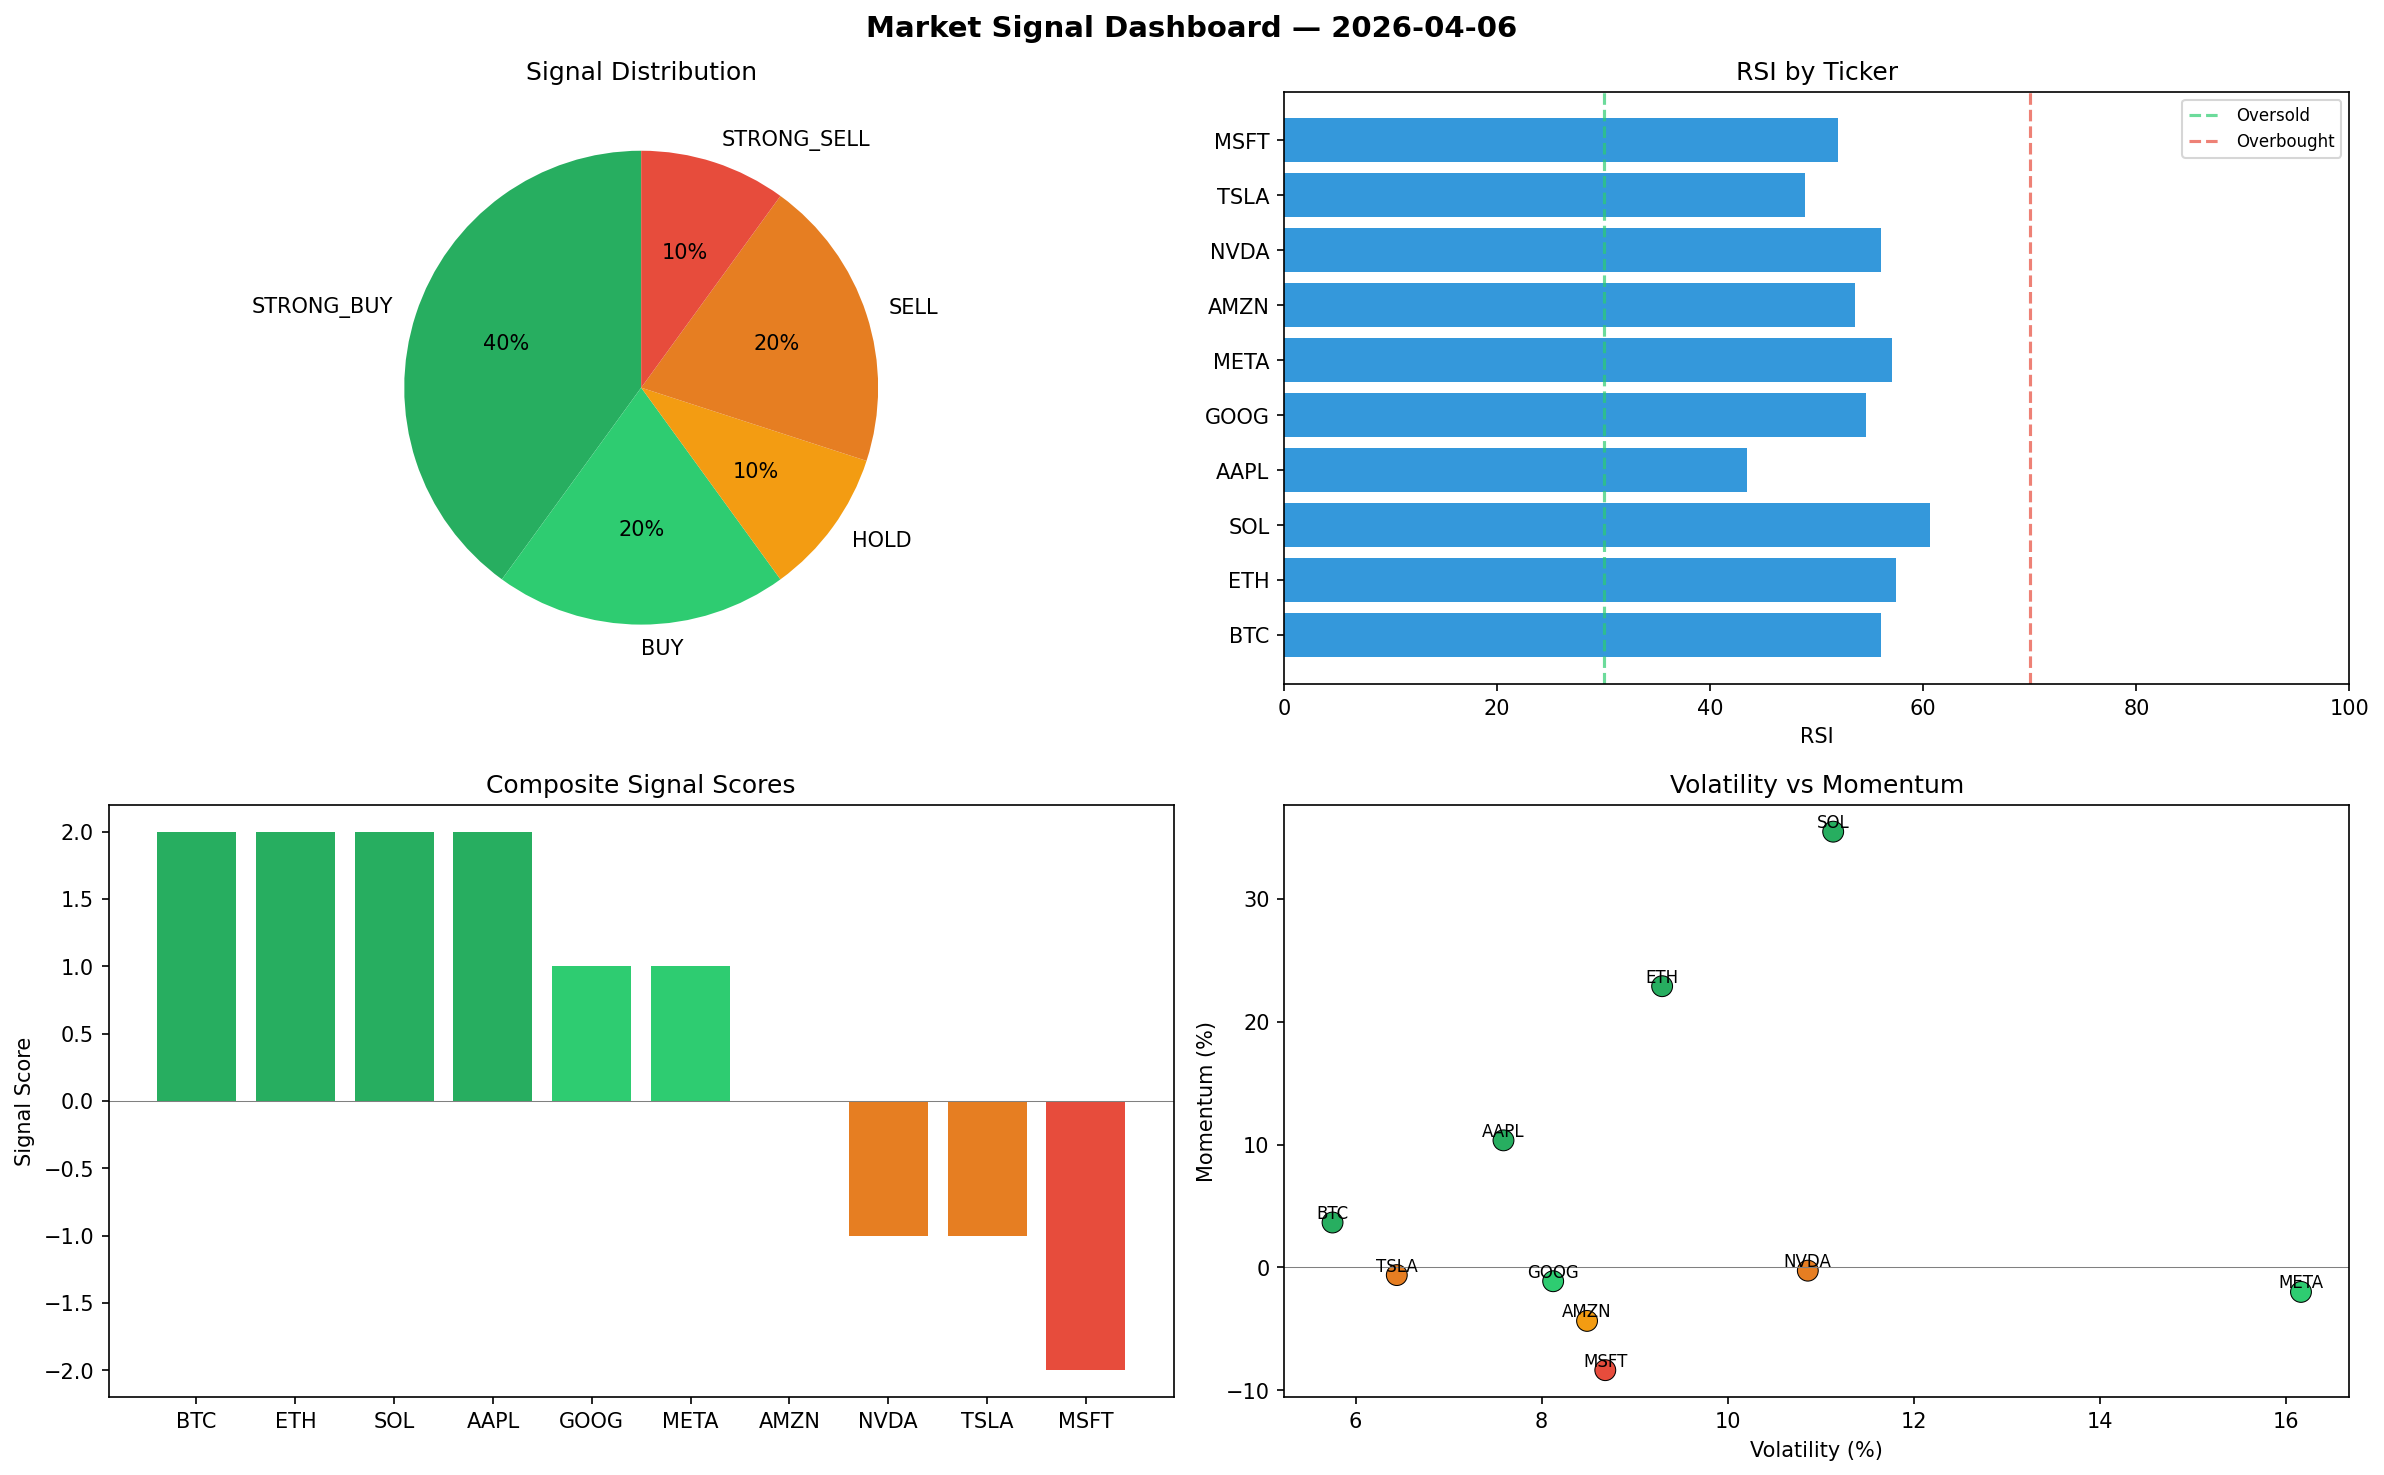
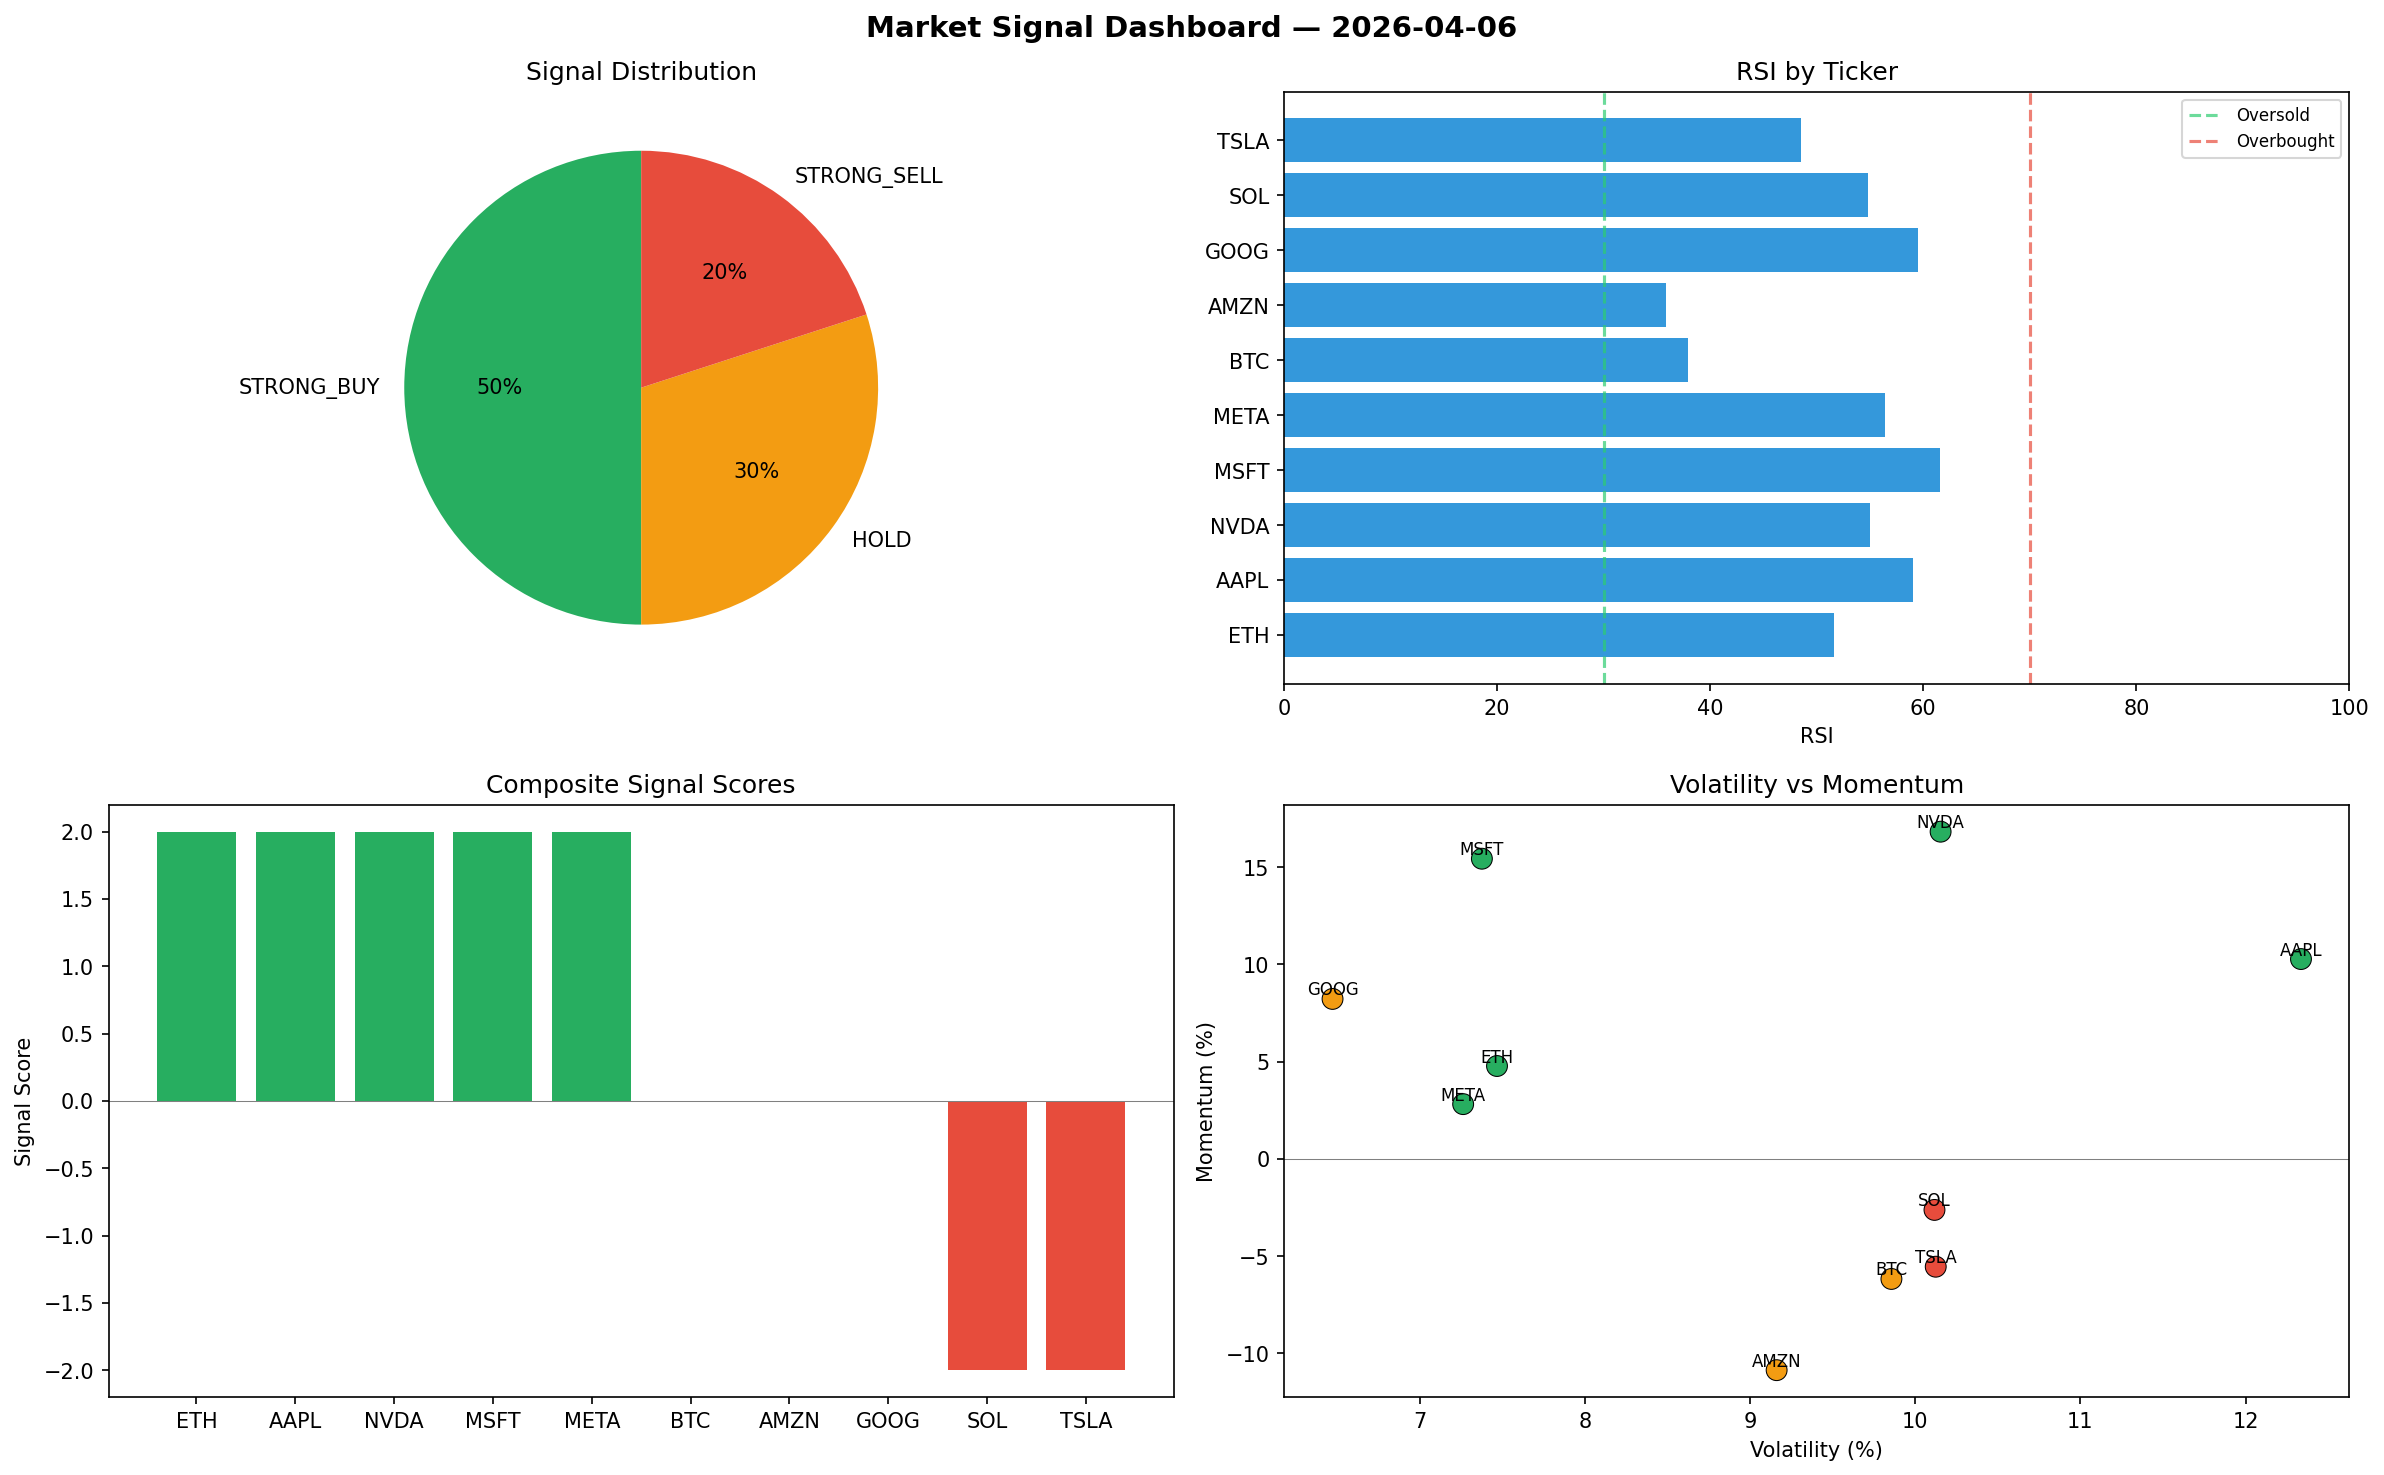
automated-bots: market signals 2026-04-06T09:46

diff --git a/logs/2026-04-06.md b/logs/2026-04-06.md
@@ -1,6 +1,6 @@
 # Market Signal Report — 2026-04-06
 
-**Run ID:** `2b1b0541de` | **Buy:** 6 | **Sell:** 3 | **Hold:** 1
+**Run ID:** `2f3bd94c5b` | **Buy:** 5 | **Sell:** 2 | **Hold:** 3
 
 ![Dashboard](2026-04-06_dashboard.png)
 
@@ -8,28 +8,28 @@
 
 | Ticker | Price | Signal | Score | RSI | Momentum | Confidence |
 |--------|-------|--------|-------|-----|----------|------------|
-| BTC | $4869.92 | **STRONG_BUY** | 2 | 56.02 | 0.0365 | 0.5 |
-| ETH | $4966.6 | **STRONG_BUY** | 2 | 57.41 | 0.2289 | 0.5 |
-| SOL | $6142.88 | **STRONG_BUY** | 2 | 60.65 | 0.3547 | 0.5 |
-| AAPL | $4188.81 | **STRONG_BUY** | 2 | 43.41 | 0.1034 | 0.5 |
-| GOOG | $3370.62 | **BUY** | 1 | 54.59 | -0.0113 | 0.25 |
-| META | $1518.66 | **BUY** | 1 | 57.04 | -0.02 | 0.25 |
-| AMZN | $4423.81 | **HOLD** | 0 | 53.6 | -0.0436 | 0.0 |
-| NVDA | $104.97 | **SELL** | -1 | 56.05 | -0.0027 | 0.25 |
-| TSLA | $490.84 | **SELL** | -1 | 48.93 | -0.0063 | 0.25 |
-| MSFT | $1359.24 | **STRONG_SELL** | -2 | 52.01 | -0.0837 | 0.5 |
+| ETH | $3713.13 | **STRONG_BUY** | 2 | 51.62 | 0.0477 | 0.5 |
+| AAPL | $3231.07 | **STRONG_BUY** | 2 | 59.04 | 0.1027 | 0.5 |
+| NVDA | $3143.82 | **STRONG_BUY** | 2 | 55.0 | 0.1682 | 0.5 |
+| MSFT | $4668.33 | **STRONG_BUY** | 2 | 61.53 | 0.1543 | 0.5 |
+| META | $4402.85 | **STRONG_BUY** | 2 | 56.4 | 0.0281 | 0.5 |
+| BTC | $4389.29 | **HOLD** | 0 | 37.89 | -0.0618 | 0.0 |
+| AMZN | $302.34 | **HOLD** | 0 | 35.83 | -0.1087 | 0.0 |
+| GOOG | $1893.18 | **HOLD** | 0 | 59.49 | 0.0822 | 0.0 |
+| SOL | $375.8 | **STRONG_SELL** | -2 | 54.79 | -0.0263 | 0.5 |
+| TSLA | $3496.52 | **STRONG_SELL** | -2 | 48.56 | -0.0555 | 0.5 |
 
 ## Delta vs Yesterday
 
 | Ticker | Today | Yesterday | Price Change | Signal Changed |
 |--------|-------|-----------|-------------|----------------|
-| BTC | STRONG_BUY | HOLD | 📈 718.61% | ⚠ YES |
-| ETH | STRONG_BUY | HOLD | 📈 592.05% | ⚠ YES |
-| SOL | STRONG_BUY | STRONG_SELL | 📈 9780.78% | ⚠ YES |
-| AAPL | STRONG_BUY | STRONG_SELL | 📈 34.56% | ⚠ YES |
-| GOOG | BUY | HOLD | 📉 -13.24% | ⚠ YES |
-| META | BUY | STRONG_BUY | 📉 -63.87% | ⚠ YES |
-| AMZN | HOLD | HOLD | 📈 339.17% | — |
-| NVDA | SELL | STRONG_SELL | 📉 -95.83% | ⚠ YES |
-| TSLA | SELL | HOLD | 📈 36.35% | ⚠ YES |
-| MSFT | STRONG_SELL | SELL | 📉 -68.03% | ⚠ YES |
+| ETH | STRONG_BUY | HOLD | 📈 417.39% | ⚠ YES |
+| AAPL | STRONG_BUY | STRONG_SELL | 📈 3.79% | ⚠ YES |
+| NVDA | STRONG_BUY | STRONG_SELL | 📈 24.88% | ⚠ YES |
+| MSFT | STRONG_BUY | SELL | 📈 9.8% | ⚠ YES |
+| META | STRONG_BUY | STRONG_BUY | 📈 4.74% | — |
+| BTC | HOLD | HOLD | 📈 637.82% | — |
+| AMZN | HOLD | HOLD | 📉 -69.99% | — |
+| GOOG | HOLD | HOLD | 📉 -51.27% | — |
+| SOL | STRONG_SELL | STRONG_SELL | 📈 504.47% | — |
+| TSLA | STRONG_SELL | HOLD | 📈 871.28% | ⚠ YES |
